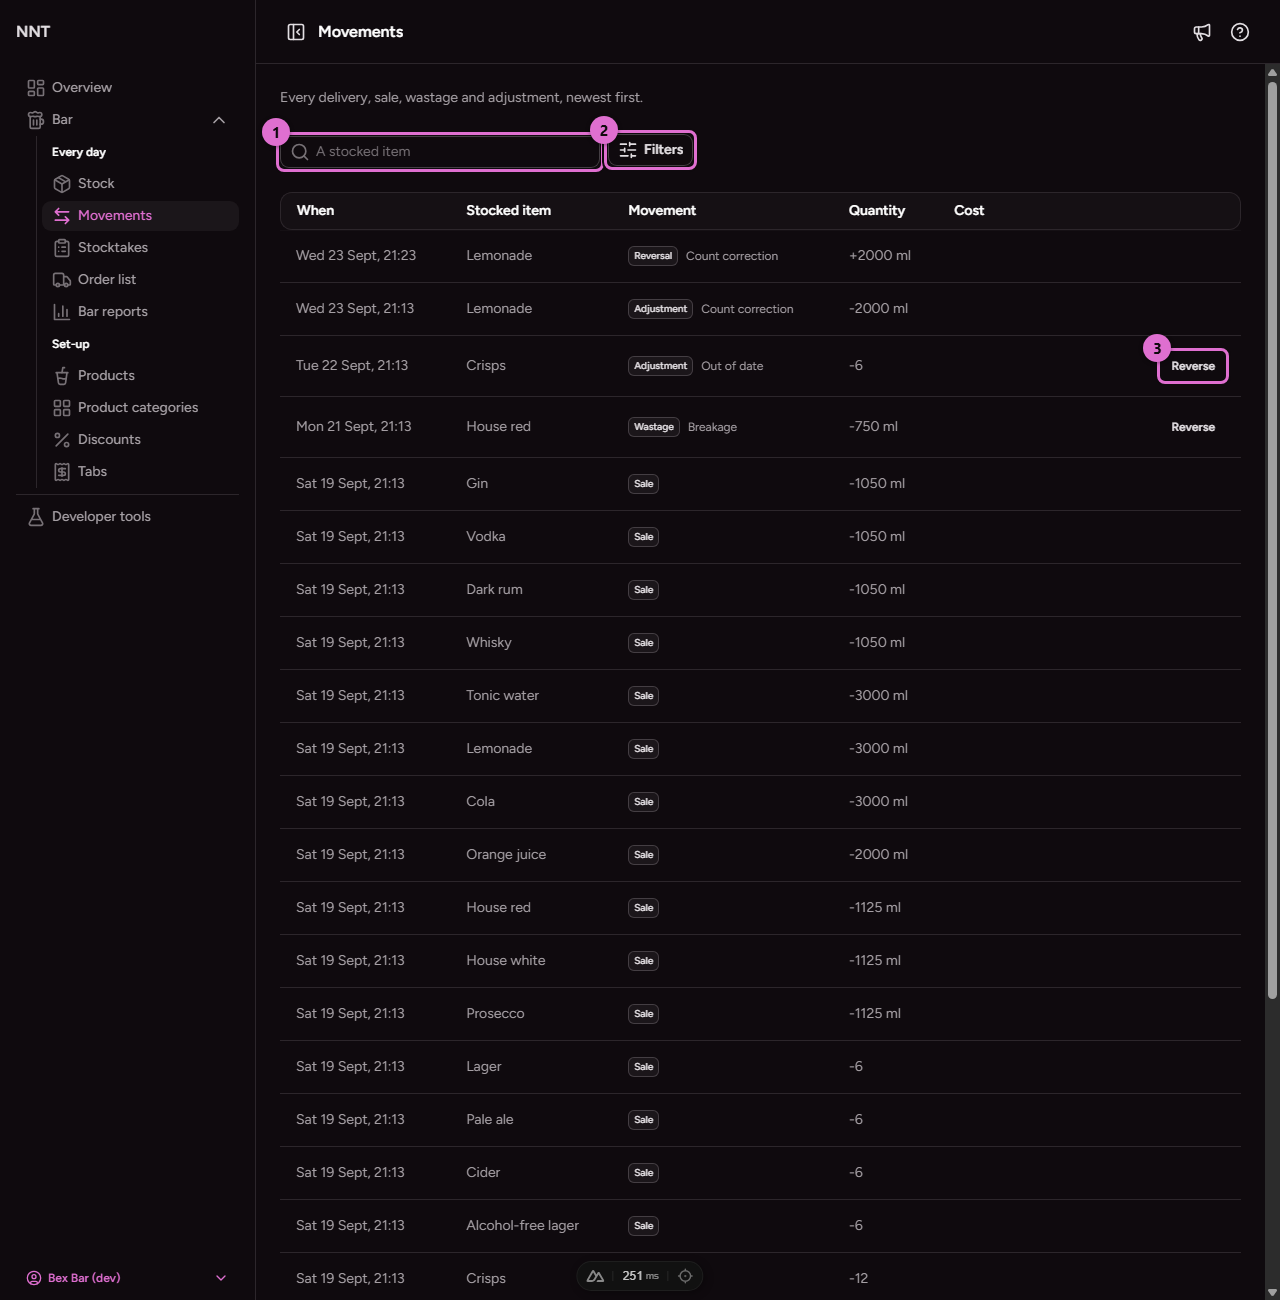
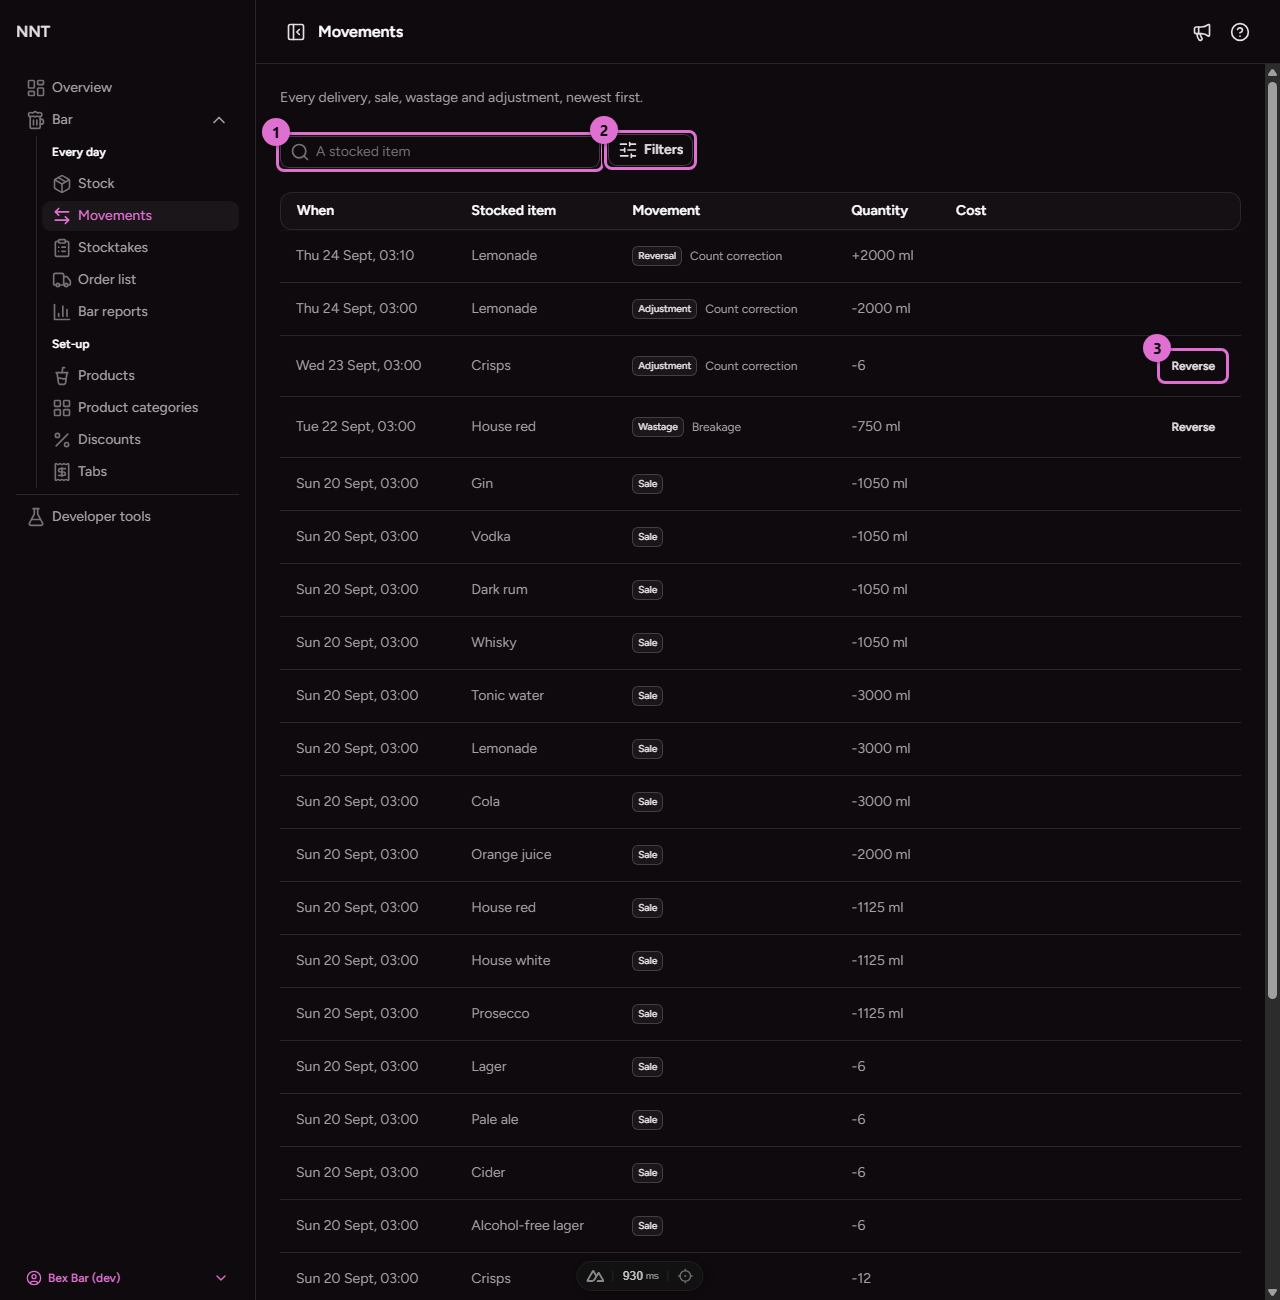
Write-off sizes read only products on the till, the tidy-up list's names say what it holds, and the seed's adjustment gives an adjustment's reason
pourSizesColumn now reads the same products Poured by names, so a write-off never offers a chip for a size nothing on the till pours. The #1371 names withoutCheckId, sellsWithoutCheckId, withoutCheckIdPredicate and no-check-id-* become poursRestrictedSwitchedOff, its predicate and age-restricted-off-*, since the till now asks for Check ID on those products anyway. The seeded crisps adjustment says Count correction, a reason ADJUST accepts (F-204); the movements picture is retaken.

diff --git a/app/pages/bar/products/index.vue b/app/pages/bar/products/index.vue
@@ -1,6 +1,6 @@
 <script setup lang="ts">
 import { h, resolveComponent } from 'vue'
-import { ALLERGEN_STATES, productForm, says, saysRestricted, sellsWithoutCheckId } from '#shared/utils/bar'
+import { ALLERGEN_STATES, productForm, says, saysRestricted, poursRestrictedSwitchedOff } from '#shared/utils/bar'
 import { barProductsList } from '#shared/utils/bar-products-list'
 import { encodeCondition } from '#shared/utils/list-filters'
 import type { FilterCondition, FilterOption } from '#shared/utils/list-filters'
@@ -39,28 +39,28 @@ const { search, conditions, sort, page, query, active, filtered, set, setSort, c
 
 // The tidy-up list's size whatever the page shows: a product pouring restricted stock with its
 // switch off is the Bar Manager's to correct, though the till asks anyway (F-106, issue 1299).
-const WITHOUT_CHECK_ID: FilterCondition = { key: 'withoutCheckId', operator: 'is', values: ['true'] }
+const SWITCHED_OFF: FilterCondition = { key: 'poursRestrictedSwitchedOff', operator: 'is', values: ['true'] }
 
-const [{ data, status, error, refresh }, { data: unchecked, refresh: recount }] = await Promise.all([
+const [{ data, status, error, refresh }, { data: switchedOff, refresh: recount }] = await Promise.all([
   useAsyncData(
     'bar-products',
     () => request<Listing<BarProduct>>('/api/admin/bar/products', { query: query.value }),
     { watch: [query], default: noProducts },
   ),
   useAsyncData(
-    'bar-products-without-check-id',
+    'bar-products-switched-off',
     () => request<Listing<BarProduct>>('/api/admin/bar/products', {
-      query: { withoutCheckId: encodeCondition(WITHOUT_CHECK_ID), pageSize: 1 },
+      query: { poursRestrictedSwitchedOff: encodeCondition(SWITCHED_OFF), pageSize: 1 },
     }),
     { default: noProducts },
   ),
 ])
 
-const showingUnchecked = computed(() => conditions.value
-  .some(condition => condition.key === WITHOUT_CHECK_ID.key && condition.values[0] === 'true'))
+const showingSwitchedOff = computed(() => conditions.value
+  .some(condition => condition.key === SWITCHED_OFF.key && condition.values[0] === 'true'))
 
-function showUnchecked(): void {
-  set('withoutCheckId', WITHOUT_CHECK_ID)
+function showSwitchedOff(): void {
+  set('poursRestrictedSwitchedOff', SWITCHED_OFF)
 }
 
 const editing = ref<BarProduct | null>(null)
@@ -225,15 +225,15 @@ const columns: TableColumn<BarProduct>[] = [
         row.original.ageRestricted
           ? h(UBadge, { color: 'warning', variant: 'subtle', size: 'sm' }, () => 'Age restricted')
           : null,
-        sellsWithoutCheckId(row.original)
-          ? h(UBadge, { 'color': 'error', 'variant': 'subtle', 'size': 'sm', 'data-test': `no-check-id-${row.original.id}` }, () => 'Age restricted off')
+        poursRestrictedSwitchedOff(row.original)
+          ? h(UBadge, { 'color': 'error', 'variant': 'subtle', 'size': 'sm', 'data-test': `age-restricted-off-${row.original.id}` }, () => 'Age restricted off')
           : null,
         row.original.staffedOnly
           ? h(UBadge, { color: 'neutral', variant: 'outline', size: 'sm' }, () => 'Staffed only')
           : null,
       ]),
       h('div', { class: 'text-xs text-muted' }, row.original.categoryName),
-      sellsWithoutCheckId(row.original)
+      poursRestrictedSwitchedOff(row.original)
         ? h('div', { class: 'text-xs text-error' }, `Pours ${saysRestricted(row.original.restrictedPours)}`)
         : null,
       // Below sm the allergens and sold columns are hidden: their content sits here instead,
@@ -332,14 +332,14 @@ const columns: TableColumn<BarProduct>[] = [
     />
 
     <UAlert
-      v-if="unchecked.total > 0 && !showingUnchecked"
+      v-if="switchedOff.total > 0 && !showingSwitchedOff"
       data-test="without-check-id"
       color="warning"
       variant="subtle"
       icon="i-lucide-id-card"
-      :title="`${plural(unchecked.total, 'product')} ${unchecked.total === 1 ? 'pours' : 'pour'} age-restricted stock with Age restricted off`"
+      :title="`${plural(switchedOff.total, 'product')} ${switchedOff.total === 1 ? 'pours' : 'pour'} age-restricted stock with Age restricted off`"
       description="The till asks for Check ID on them anyway. Edit each one so the list agrees, or switch the stocked item off on the stock register if it is not alcohol."
-      :actions="[{ label: 'Show them', color: 'warning', onClick: showUnchecked }]"
+      :actions="[{ label: 'Show them', color: 'warning', onClick: showSwitchedOff }]"
     />
 
     <p class="text-sm text-muted">

diff --git a/server/utils/bar-linkage.ts b/server/utils/bar-linkage.ts
@@ -34,8 +34,8 @@ export function pouredByColumn(alias: string): SQL {
   )`
 }
 
-// The quantities poured from an item by a live size of a product still on the catalogue, directly
-// or as a choice, once each (issue 1350). A column over the row, binding nothing (0006).
+// The quantities poured from an item by a live size of a product on the till, directly or as a
+// choice, once each: the products Poured by names (issue 1350). Binds nothing per row (0006).
 export function pourSizesColumn(alias: string): SQL {
   const item = sql.raw(`${alias}.id`)
   // A component names an item or a choice group, never both, so one pass covers either (0017).
@@ -44,7 +44,7 @@ export function pourSizesColumn(alias: string): SQL {
       SELECT DISTINCT coalesce(g.qty, c.qty) AS qty
       FROM variant_components c
       JOIN product_variants v ON v.id = c.variant_id AND v.status = 'ACTIVE'
-      JOIN bar_products p ON p.id = v.product_id AND p.status <> 'RETIRED'
+      JOIN bar_products p ON p.id = v.product_id AND p.status = 'ACTIVE'
       LEFT JOIN choice_group_items g ON g.choice_group_id = c.choice_group_id AND g.item_id = ${item}
       WHERE c.item_id = ${item} OR g.item_id IS NOT NULL
       ORDER BY qty
@@ -91,9 +91,9 @@ export function restrictedPoursColumn(alias: string): SQL {
 
 export const readRestrictedPours = (value: string | null): string[] => readJsonArray(value)
 
-// The Bar Manager's correction list: any product left unrestricted that pours restricted stock.
+// The Bar Manager's tidy-up list: any product left unrestricted that pours restricted stock.
 // Hidden and retired count, since either goes back on the till with one press.
-export function withoutCheckIdPredicate(alias: string): SQL {
+export function poursRestrictedSwitchedOffPredicate(alias: string): SQL {
   return sql`(${sql.raw(alias)}.age_restricted = 0 AND EXISTS (${restrictedPoured(sql.raw(`${alias}.id`))}))`
 }
 

diff --git a/server/utils/bar.ts b/server/utils/bar.ts
@@ -1,6 +1,6 @@
 import { db } from '@nuxthub/db'
 import { sql } from 'drizzle-orm'
-import { pourSizesColumn, pouredByColumn, readPourSizes, readPouredBy, readRestrictedPours, restrictedPoursColumn, withoutCheckIdPredicate } from './bar-linkage'
+import { pourSizesColumn, pouredByColumn, readPourSizes, readPouredBy, readRestrictedPours, restrictedPoursColumn, poursRestrictedSwitchedOffPredicate } from './bar-linkage'
 import type { SQL } from 'drizzle-orm'
 import { SERVING_KINDS, effectivePriceRow } from '#shared/utils/bar'
 import { barCategoriesList } from '#shared/utils/bar-categories-list'
@@ -361,7 +361,7 @@ export function productsClause(query: ListQuery): ListClause {
     search: [sql`p.name`],
     fields: {
       retired: yesNo(sql`p.status = 'RETIRED'`),
-      withoutCheckId: yesNo(withoutCheckIdPredicate('p')),
+      poursRestrictedSwitchedOff: yesNo(poursRestrictedSwitchedOffPredicate('p')),
     },
   })
 }

diff --git a/shared/utils/bar.ts b/shared/utils/bar.ts
@@ -37,8 +37,8 @@ export function checkIdRefusal(product: { name: string, ageRestricted: boolean }
 }
 
 // The row the tidy-up list holds (switch off, restricted stock poured), read the way
-// withoutCheckIdPredicate reads it on the server.
-export const sellsWithoutCheckId = (product: Pick<BarProduct, 'ageRestricted' | 'restrictedPours'>): boolean =>
+// poursRestrictedSwitchedOffPredicate reads it on the server.
+export const poursRestrictedSwitchedOff = (product: Pick<BarProduct, 'ageRestricted' | 'restrictedPours'>): boolean =>
   !product.ageRestricted && product.restrictedPours.length > 0
 
 export interface RegisterFlag {

diff --git a/shared/utils/bar-products-list.ts b/shared/utils/bar-products-list.ts
@@ -20,7 +20,7 @@ export const barProductsList = {
     // The Bar Manager's tidy-up list: switched off though it pours restricted stock (issue 1299).
     // The till asks for Check ID on those anyway; this is the list reading true.
     {
-      key: 'withoutCheckId',
+      key: 'poursRestrictedSwitchedOff',
       label: 'Pours restricted stock, Age restricted off',
       kind: 'yes-no',
       negated: 'Age restricted wherever its stock is',

diff --git a/scripts/seed/bar.ts b/scripts/seed/bar.ts
@@ -516,7 +516,7 @@ function seedStock(target: SeedTarget, items: Map<string, string>, keeper: strin
       item_id: items.get('crisps')!,
       qty: -6,
       kind: 'ADJUST',
-      reason: 'OUT_OF_DATE',
+      reason: 'COUNT_CORRECTION',
       actor_id: keeper,
       created_at: now - 4 * DAY,
     }))

diff --git a/docs/data-model.md b/docs/data-model.md
@@ -1538,8 +1538,8 @@ for each listing:
 | Route | What it does |
 | --- | --- |
 | `GET /api/admin/bar/categories` | The paged envelope, each row carrying its product count. Filtered by its declaration (`shared/utils/bar-categories-list.ts`, K-129): no field yet, only `search` over the name and `sort` by till order or name. |
-| `GET /api/admin/bar/products` | The paged envelope, every status included, each row carrying whether it has ever sold and `restrictedPours`, the names of the age-restricted stocked items its live sizes pour. Filtered by its declaration (`shared/utils/bar-products-list.ts`, K-129): `categoryId`, `retired` and `withoutCheckId` (a product left unrestricted that pours restricted stock, hidden and retired included, the Bar Manager's correction list, issue 1299), with `search` over the name and `sort` by category, category name, till order within the category, or product name. |
-| `GET /api/admin/bar/items` | The paged envelope, each row carrying what is on hand: the sum of its movements, and `pourSizes`, the quantities its live sizes pour (once each, choices included, `pourSizesColumn`), which a write-off offers as chips (issue 1350). Filtered by its declaration (`shared/utils/bar-items-list.ts`, K-129): `retired`, with `search` over the name and `sort` by status or name. |
+| `GET /api/admin/bar/products` | The paged envelope, every status included, each row carrying whether it has ever sold and `restrictedPours`, the names of the age-restricted stocked items its live sizes pour. Filtered by its declaration (`shared/utils/bar-products-list.ts`, K-129): `categoryId`, `retired` and `poursRestrictedSwitchedOff` (a product left unrestricted that pours restricted stock, hidden and retired included, the Bar Manager's tidy-up list, issue 1299), with `search` over the name and `sort` by category, category name, till order within the category, or product name. |
+| `GET /api/admin/bar/items` | The paged envelope, each row carrying what is on hand: the sum of its movements, and `pourSizes`, the quantities the live sizes of products on the till pour from it (once each, choices included, the same products as Poured by, `pourSizesColumn`), which a write-off offers as chips (issue 1350). Filtered by its declaration (`shared/utils/bar-items-list.ts`, K-129): `retired`, with `search` over the name and `sort` by status or name. |
 | `GET /api/admin/bar/movements` | The paged envelope, newest first. Filtered by its declaration (`shared/utils/bar-movements-list.ts`, K-129): `itemId` and `kind`, with `search` over the stocked item's name and `sort` by when or `recordedOrder`, the row's own insertion order, which breaks a tie within the same second. |
 | `GET /api/admin/bar/stocktakes` | The paged envelope, newest opened first. Filtered by its declaration (`shared/utils/stocktakes-list.ts`, K-129): `status`, which is also the only column the `search` box runs over. |
 

diff --git a/content/docs/05.bar/3.stock.md b/content/docs/05.bar/3.stock.md
@@ -102,8 +102,9 @@ exactly what it will write (*Write off 175 ml of House red*) before anything is 
 ### A write-off
 
 1. Press **Write off** on the item.
-2. Tap how much: one chip for each amount the bar pours from it (*175 ml*), and **The whole
-   container** for a measured item. Or type the **Quantity** in the item's own unit.
+2. Tap how much: one chip for each amount the products in its **Poured by** column pour from it
+   (*175 ml*), and **The whole container** for a measured item. Or type the **Quantity** in the
+   item's own unit.
 3. Tap why: breakage, spillage, out of date, line cleaning, quality, training or other. It is a
    fixed list rather than free text so waste can be reported on.
 4. Press **Write off ...**. The button names the amount and the item, and stays disabled until
